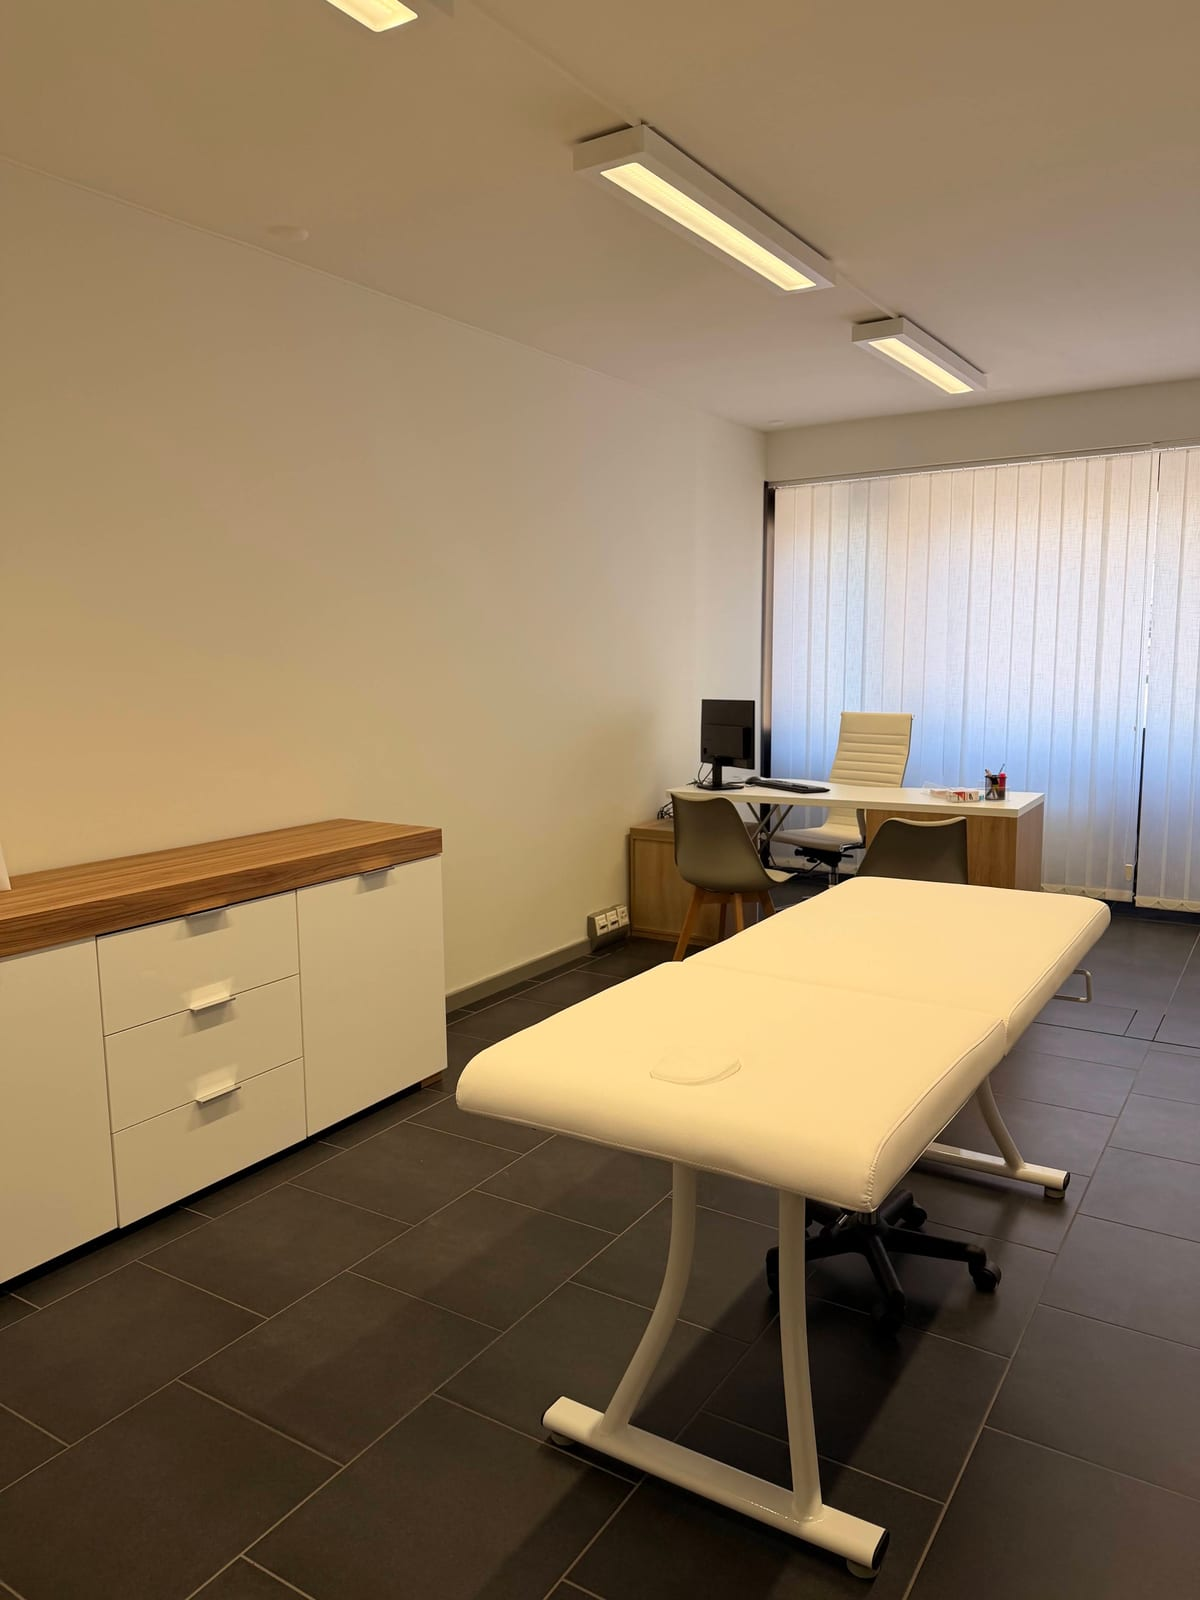
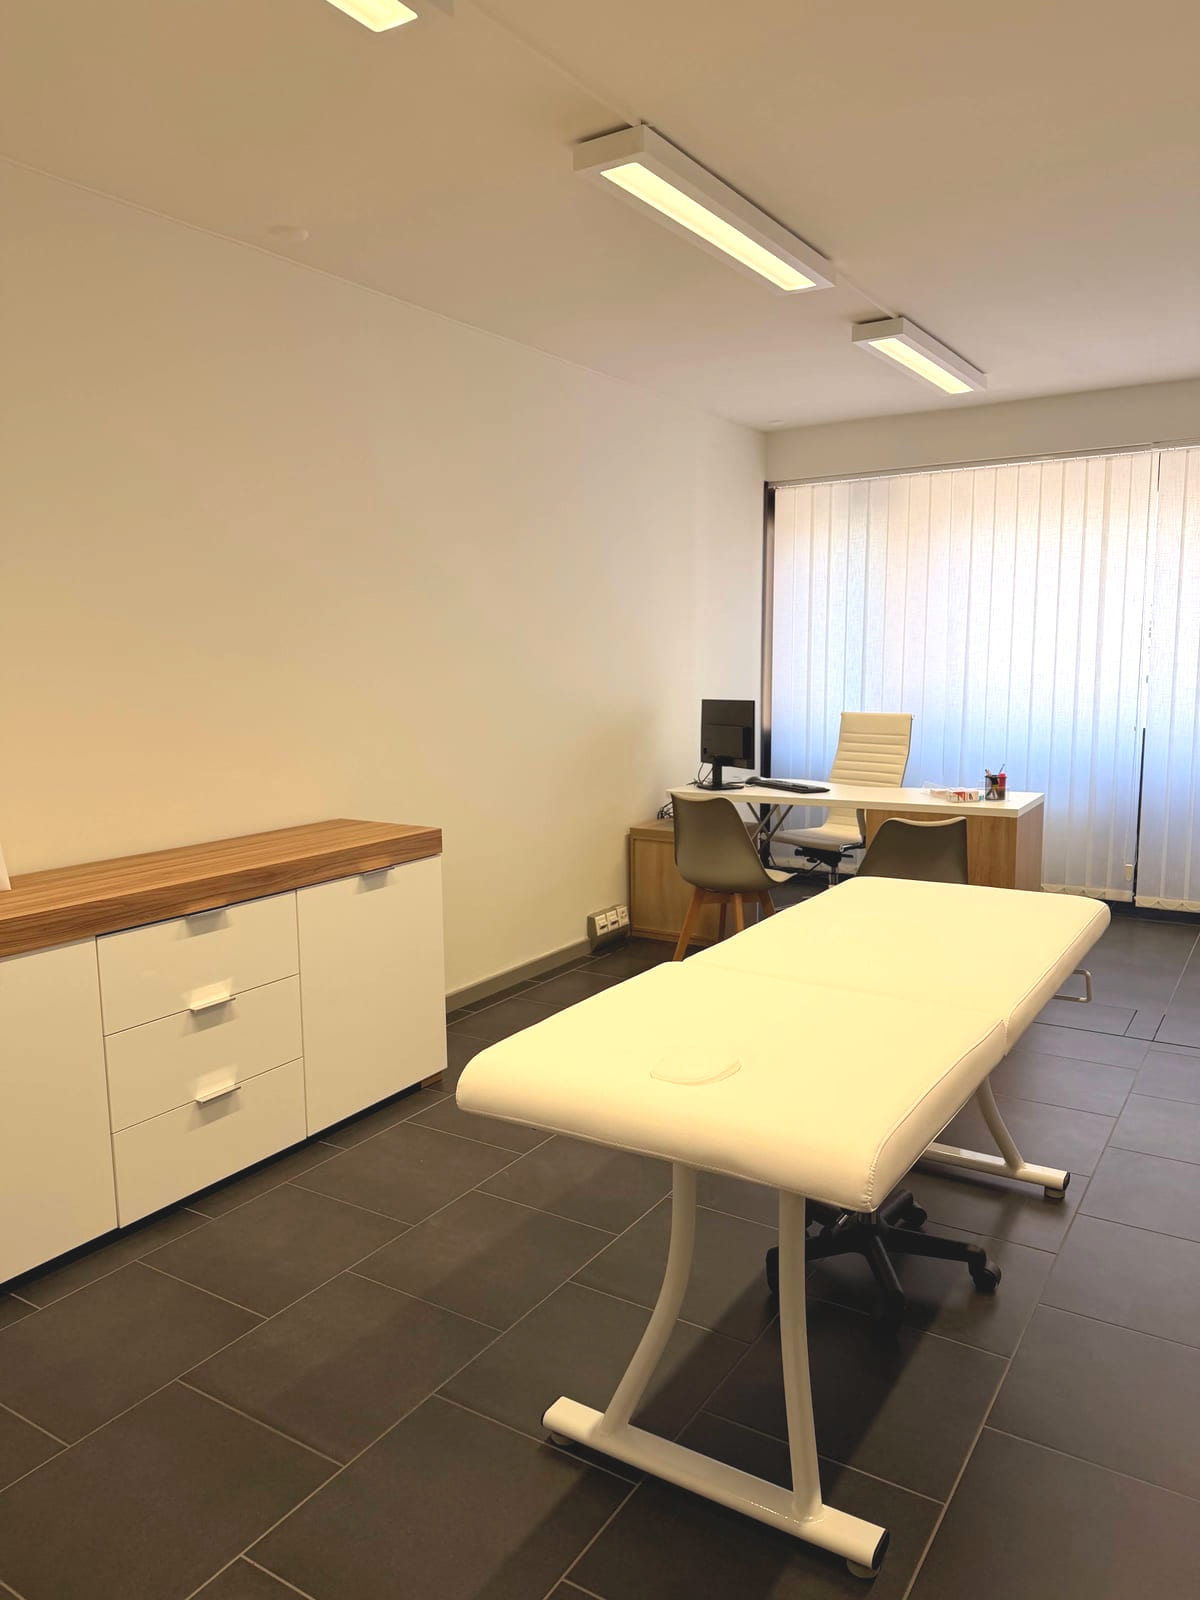
Menu mobile riparato, indirizzo in evidenza e foto più luminose
Menu mobile: a pagina scorsa si apriva ma restava fuori dallo schermo,
bloccando la navigazione. Causa: lo sfondo sfocato dell'intestazione
("backdrop-filter") faceva ancorare a essa il pannello invece che allo
schermo. Lo sfondo è stato spostato su un riquadro interno.
Verificato con una prova automatica a tre altezze di scorrimento.

Testata: al posto di "Centro medico · Chiasso, Ticino" ora compaiono
l'indirizzo e un tasto "Naviga" che apre le indicazioni stradali; anche la
scheda sulla foto porta alla navigazione.

Foto: nuovo script che porta tutte le foto alla stessa luminosità media.
Gli ambienti risultano più chiari e uniformi senza bruciare le finestre.
Lo script è idempotente: rieseguirlo non schiarisce ulteriormente.

Claude-Session: https://claude.ai/code/session_01VjF9QwQVuHDaWiRmZw4V8J

diff --git a/src/components/layout/Header.tsx b/src/components/layout/Header.tsx
@@ -76,96 +76,103 @@ export function Header({ logo, nav, groups, phone, address }: Props) {
     url === '/' ? pathname === '/' : pathname === url || pathname.startsWith(`${url}/`)
 
   return (
-    <header
-      ref={headerRef}
-      className={cn(
-        'sticky top-0 z-40 transition-all duration-300',
-        scrolled || megaOpen
-          ? 'border-b border-line/80 bg-cream/90 shadow-[0_1px_0_rgb(0_0_0/0.02)] backdrop-blur-xl'
-          : 'border-b border-transparent bg-cream',
-      )}
-    >
-      <div className="mx-auto flex h-20 max-w-7xl items-center justify-between gap-6 px-5 sm:px-8">
-        {logo}
+    <header ref={headerRef} className="sticky top-0 z-40">
+      {/*
+        Lo sfondo sfocato sta su questo riquadro interno e NON sull'elemento <header>.
+        Motivo: "backdrop-filter" rende l'elemento il riferimento per i figli con
+        position:fixed. Applicato all'intestazione, faceva ancorare a essa il menu mobile,
+        che a pagina scorsa finiva fuori dallo schermo pur restando aperto (schermata bloccata).
+      */}
+      <div
+        className={cn(
+          'transition-all duration-300',
+          scrolled || megaOpen
+            ? 'border-b border-line/80 bg-cream/90 shadow-[0_1px_0_rgb(0_0_0/0.02)] backdrop-blur-xl'
+            : 'border-b border-transparent bg-cream',
+        )}
+      >
+        <div className="mx-auto flex h-20 max-w-7xl items-center justify-between gap-6 px-5 sm:px-8">
+          {logo}
 
-        <nav aria-label="Navigazione principale" className="hidden lg:block">
-          <ul className="flex items-center gap-1">
-            {nav.map((item) =>
-              item.servicesMenu && groups.length ? (
-                <li key={item.url} onMouseEnter={openMega} onMouseLeave={scheduleClose}>
-                  <button
-                    type="button"
-                    aria-expanded={megaOpen}
-                    aria-controls="menu-servizi"
-                    onClick={() => setMegaOpen((v) => !v)}
-                    className={cn(
-                      'flex items-center gap-1 rounded-full px-4 py-2 text-[0.95rem] font-medium transition-colors',
-                      isActive(item.url) || megaOpen
-                        ? 'text-navy-800'
-                        : 'text-ink/80 hover:text-navy-800',
-                    )}
-                  >
-                    {item.label}
-                    <ChevronDown
-                      size={16}
-                      className={cn('transition-transform', megaOpen && 'rotate-180')}
-                      aria-hidden
-                    />
-                  </button>
-                </li>
-              ) : (
-                <li key={item.url}>
-                  <Link
-                    href={item.url}
-                    aria-current={isActive(item.url) ? 'page' : undefined}
-                    className={cn(
-                      'relative rounded-full px-4 py-2 text-[0.95rem] font-medium transition-colors',
-                      isActive(item.url) ? 'text-navy-800' : 'text-ink/80 hover:text-navy-800',
-                    )}
-                  >
-                    {item.label}
-                    {isActive(item.url) ? (
-                      <span
-                        className="absolute inset-x-4 -bottom-0.5 h-px bg-orchid-400"
+          <nav aria-label="Navigazione principale" className="hidden lg:block">
+            <ul className="flex items-center gap-1">
+              {nav.map((item) =>
+                item.servicesMenu && groups.length ? (
+                  <li key={item.url} onMouseEnter={openMega} onMouseLeave={scheduleClose}>
+                    <button
+                      type="button"
+                      aria-expanded={megaOpen}
+                      aria-controls="menu-servizi"
+                      onClick={() => setMegaOpen((v) => !v)}
+                      className={cn(
+                        'flex items-center gap-1 rounded-full px-4 py-2 text-[0.95rem] font-medium transition-colors',
+                        isActive(item.url) || megaOpen
+                          ? 'text-navy-800'
+                          : 'text-ink/80 hover:text-navy-800',
+                      )}
+                    >
+                      {item.label}
+                      <ChevronDown
+                        size={16}
+                        className={cn('transition-transform', megaOpen && 'rotate-180')}
                         aria-hidden
                       />
-                    ) : null}
-                  </Link>
-                </li>
-              ),
-            )}
-          </ul>
-        </nav>
+                    </button>
+                  </li>
+                ) : (
+                  <li key={item.url}>
+                    <Link
+                      href={item.url}
+                      aria-current={isActive(item.url) ? 'page' : undefined}
+                      className={cn(
+                        'relative rounded-full px-4 py-2 text-[0.95rem] font-medium transition-colors',
+                        isActive(item.url) ? 'text-navy-800' : 'text-ink/80 hover:text-navy-800',
+                      )}
+                    >
+                      {item.label}
+                      {isActive(item.url) ? (
+                        <span
+                          className="absolute inset-x-4 -bottom-0.5 h-px bg-orchid-400"
+                          aria-hidden
+                        />
+                      ) : null}
+                    </Link>
+                  </li>
+                ),
+              )}
+            </ul>
+          </nav>
 
-        <div className="flex items-center gap-2">
-          {phone ? (
-            <a
-              href={toTelHref(phone)}
-              className="hidden items-center gap-2 rounded-full px-3 py-2 text-[0.95rem] font-medium text-navy-800 transition-colors hover:bg-navy-50 xl:inline-flex"
+          <div className="flex items-center gap-2">
+            {phone ? (
+              <a
+                href={toTelHref(phone)}
+                className="hidden items-center gap-2 rounded-full px-3 py-2 text-[0.95rem] font-medium text-navy-800 transition-colors hover:bg-navy-50 xl:inline-flex"
+              >
+                <Phone size={17} aria-hidden />
+                {phone}
+              </a>
+            ) : null}
+            <div className="hidden sm:block">
+              <Button href="/prenota" size="md">
+                Prenota una visita
+              </Button>
+            </div>
+            <button
+              type="button"
+              className="inline-flex h-11 w-11 items-center justify-center rounded-full text-navy-900 ring-1 ring-line lg:hidden"
+              aria-label={mobileOpen ? 'Chiudi menu' : 'Apri menu'}
+              aria-expanded={mobileOpen}
+              aria-controls="menu-mobile"
+              onClick={() => {
+                const bottom = headerRef.current?.getBoundingClientRect().bottom
+                if (bottom) setMenuTop(Math.max(0, bottom))
+                setMobileOpen((v) => !v)
+              }}
             >
-              <Phone size={17} aria-hidden />
-              {phone}
-            </a>
-          ) : null}
-          <div className="hidden sm:block">
-            <Button href="/prenota" size="md">
-              Prenota una visita
-            </Button>
+              {mobileOpen ? <X size={22} aria-hidden /> : <Menu size={22} aria-hidden />}
+            </button>
           </div>
-          <button
-            type="button"
-            className="inline-flex h-11 w-11 items-center justify-center rounded-full text-navy-900 ring-1 ring-line lg:hidden"
-            aria-label={mobileOpen ? 'Chiudi menu' : 'Apri menu'}
-            aria-expanded={mobileOpen}
-            aria-controls="menu-mobile"
-            onClick={() => {
-              const bottom = headerRef.current?.getBoundingClientRect().bottom
-              if (bottom) setMenuTop(Math.max(0, bottom))
-              setMobileOpen((v) => !v)
-            }}
-          >
-            {mobileOpen ? <X size={22} aria-hidden /> : <Menu size={22} aria-hidden />}
-          </button>
         </div>
       </div>
 

diff --git a/src/blocks/components/HeroBlock.tsx b/src/blocks/components/HeroBlock.tsx
@@ -1,4 +1,4 @@
-import { ArrowRight, Check, MapPin, Phone } from 'lucide-react'
+import { ArrowRight, ArrowUpRight, Check, MapPin, Phone } from 'lucide-react'
 import Link from 'next/link'
 import React from 'react'
 
@@ -11,6 +11,7 @@ import { MediaImage } from '@/components/ui/MediaImage'
 import { OpenStatus } from '@/components/ui/OpenStatus'
 import { getServices, getSettings } from '@/lib/data'
 import { paths } from '@/lib/paths'
+import { directionsUrl } from '@/lib/settings-helpers'
 import { toTelHref } from '@/lib/utils'
 import type { HeroBlock as HeroBlockType } from '@/payload-types'
 
@@ -66,7 +67,28 @@ export async function HeroBlock({ block, isFirst }: { block: HeroBlockType; isFi
       />
       <Container className="relative grid items-center gap-14 pt-10 pb-14 md:pt-16 lg:grid-cols-12 lg:gap-10 lg:pb-20">
         <div className="animate-fade-up lg:col-span-7">
-          {block.eyebrow ? (
+          {/* Dove siamo, subito visibile: indirizzo e navigazione a un tocco */}
+          {settings.address?.street ? (
+            <a
+              href={directionsUrl(settings)}
+              target="_blank"
+              rel="noopener noreferrer"
+              className="group inline-flex max-w-full items-center gap-2 rounded-full bg-white py-1.5 pr-1.5 pl-4 text-[0.82rem] font-medium text-navy-800 shadow-soft ring-1 ring-line transition-shadow hover:shadow-lift sm:text-sm"
+            >
+              <MapPin size={16} className="shrink-0 text-orchid-500" aria-hidden />
+              <span className="min-w-0">
+                {settings.address.street}
+                <span className="hidden sm:inline">
+                  , {settings.address.postalCode} {settings.address.city}
+                </span>
+                <span className="sm:hidden"> · {settings.address.city}</span>
+              </span>
+              <span className="inline-flex shrink-0 items-center gap-1 rounded-full bg-navy-700 px-3 py-1.5 text-[0.78rem] font-semibold text-white transition-colors group-hover:bg-navy-900">
+                Naviga
+                <ArrowUpRight size={13} aria-hidden />
+              </span>
+            </a>
+          ) : block.eyebrow ? (
             <p className="inline-flex items-center gap-2 rounded-full bg-white px-4 py-2 text-sm font-medium text-navy-800 shadow-soft ring-1 ring-line">
               <span className="h-1.5 w-1.5 rounded-full bg-orchid-500" aria-hidden />
               {block.eyebrow}
@@ -115,9 +137,14 @@ export async function HeroBlock({ block, isFirst }: { block: HeroBlockType; isFi
               <HeroArt />
             )}
           </div>
-          <div className="absolute -right-2 -bottom-6 max-w-[17rem] rounded-2xl bg-white/95 p-4 shadow-lift ring-1 ring-line backdrop-blur sm:-right-8">
+          <a
+            href={directionsUrl(settings)}
+            target="_blank"
+            rel="noopener noreferrer"
+            className="group absolute -right-2 -bottom-6 max-w-[17rem] rounded-2xl bg-white/95 p-4 shadow-lift ring-1 ring-line backdrop-blur transition-shadow hover:shadow-[0_18px_40px_-12px_rgb(21_40_86/0.28)] sm:-right-8"
+          >
             <div className="flex gap-3">
-              <span className="flex h-10 w-10 shrink-0 items-center justify-center rounded-full bg-orchid-50 text-orchid-700">
+              <span className="flex h-10 w-10 shrink-0 items-center justify-center rounded-full bg-orchid-50 text-orchid-700 transition-colors group-hover:bg-orchid-100">
                 <MapPin size={18} aria-hidden />
               </span>
               <div className="text-sm leading-snug">
@@ -125,9 +152,13 @@ export async function HeroBlock({ block, isFirst }: { block: HeroBlockType; isFi
                   {settings.address?.city}, {settings.address?.region || 'Ticino'}
                 </p>
                 <p className="text-muted">{settings.address?.street}</p>
+                <p className="mt-1 inline-flex items-center gap-1 text-[0.8rem] font-semibold text-navy-700">
+                  Naviga
+                  <ArrowUpRight size={13} aria-hidden />
+                </p>
               </div>
             </div>
-          </div>
+          </a>
           <div className="absolute top-8 -right-2 rounded-full bg-white/95 px-4 py-2.5 text-sm font-medium text-navy-900 shadow-lift ring-1 ring-line backdrop-blur sm:-right-6">
             <OpenStatus hours={settings.openingHours} />
           </div>
